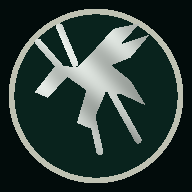
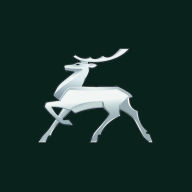
Use the supplied GAZ-21 deer emblem

Changed region(s): [[0.0312, 0.0312, 0.9688, 0.9688]]

diff --git a/index.html b/index.html
@@ -33,7 +33,7 @@ button{font:inherit;color:inherit;cursor:pointer}
 button:focus-visible{outline:3px solid var(--gold);outline-offset:3px}
 .app{position:relative;max-width:520px;margin:0 auto;padding:18px 0 34px;display:grid;gap:14px}
 .brandbar{display:flex;align-items:center;justify-content:space-between;gap:12px;padding:2px 3px}
-.brand{display:flex;align-items:center;gap:10px;min-width:0}.badge{width:57px;height:49px;flex:none;display:grid;place-items:center;color:var(--chrome);filter:drop-shadow(0 3px 5px rgba(0,0,0,.55))}.badge svg{width:57px;height:45px;overflow:visible}.title{display:grid;line-height:1}.title b{font-family:var(--dial);font-size:29px;font-stretch:condensed;font-weight:800;font-style:italic;letter-spacing:.16em;text-transform:uppercase;color:#ece9d5;text-shadow:0 2px 0 #303a35,0 4px 10px rgba(0,0,0,.55)}.title small{margin-top:7px;color:var(--muted);font-family:var(--dial);font-size:10px;font-weight:700;letter-spacing:.18em;text-transform:uppercase}
+.brand{display:flex;align-items:center;gap:10px;min-width:0}.badge{display:block;width:57px;height:49px;flex:none;object-fit:contain;filter:drop-shadow(0 3px 5px rgba(0,0,0,.55))}.title{display:grid;line-height:1}.title b{font-family:var(--dial);font-size:29px;font-stretch:condensed;font-weight:800;font-style:italic;letter-spacing:.16em;text-transform:uppercase;color:#ece9d5;text-shadow:0 2px 0 #303a35,0 4px 10px rgba(0,0,0,.55)}.title small{margin-top:7px;color:var(--muted);font-family:var(--dial);font-size:10px;font-weight:700;letter-spacing:.18em;text-transform:uppercase}
 .conn{min-height:44px;display:flex;align-items:center;gap:8px;border:1px solid var(--line);background:rgba(5,20,20,.58);border-radius:999px;padding:9px 13px;font-size:13px;font-weight:650;white-space:nowrap;box-shadow:inset 0 1px rgba(255,255,255,.05)}
 .dot{position:relative;width:9px;height:9px;border-radius:50%;background:var(--off);flex:none}.dot:after{content:"";position:absolute;inset:-5px;border:1px solid transparent;border-radius:50%}.conn[data-s="on"] .dot{background:var(--green);box-shadow:0 0 12px var(--green)}.conn[data-s="wait"] .dot{background:var(--amber);box-shadow:0 0 10px var(--amber)}.conn[data-s="wait"] .dot:after{border-color:var(--amber);animation:radiate 1.4s infinite}
 @keyframes radiate{to{transform:scale(1.55);opacity:0}}
@@ -54,7 +54,7 @@ button:focus-visible{outline:3px solid var(--gold);outline-offset:3px}
 <main class="app">
   <header class="brandbar">
     <div class="brand">
-      <div class="badge" aria-hidden="true"><svg viewBox="0 0 160 92" fill="none"><defs><linearGradient id="stagMetal" x1="0" y1="0" x2="1" y2="1"><stop stop-color="#fffde9"/><stop offset=".35" stop-color="#a2aaa7"/><stop offset=".68" stop-color="#f1eedb"/><stop offset="1" stop-color="#67716e"/></linearGradient></defs><path d="M18 66 37 45l18-11 14-18 8 2-3 13 18-10 22-17 10 2-12 15 22-10 9 4-17 15 25-5 7 6-20 12-25 5-18 1 18 8 18 17-17-7-17-1-20 10-24-2-17-13-17 8z" fill="url(#stagMetal)" stroke="#26322e" stroke-width="1.7" stroke-linejoin="round"/><path d="M58 36 41 17m24 13L56 9m53 57 17 20M87 70l-4 18M55 67 37 86M35 55 15 43" stroke="url(#stagMetal)" stroke-width="6" stroke-linecap="round"/><path d="m111 20 16-17m-7 23 25-15" stroke="url(#stagMetal)" stroke-width="5" stroke-linecap="round"/><circle cx="82" cy="30" r="2.2" fill="#121a17"/></svg></div>
+      <img class="badge" src="gaz21-deer.png" width="57" height="49" alt="">
       <div class="title"><b>Волга</b><small>ГАЗ-21 · водительская дверь</small></div>
     </div>
     <button class="conn" id="connBtn" data-s="off" type="button" aria-label="Подключиться к замку"><span class="dot"></span><span id="connText">Подключить</span></button>

diff --git a/sw.js b/sw.js
@@ -1,6 +1,6 @@
 // Кэш для работы без интернета (например, в гараже)
-const CACHE = 'volga-v6-stag-emblem';
-const FILES = ['./', 'index.html', 'manifest.webmanifest', 'icon-192.png', 'icon-512.png'];
+const CACHE = 'volga-v7-gaz21-deer';
+const FILES = ['./', 'index.html', 'manifest.webmanifest', 'gaz21-deer.png', 'icon-192.png', 'icon-512.png'];
 self.addEventListener('install', e => { e.waitUntil(caches.open(CACHE).then(c => c.addAll(FILES))); self.skipWaiting(); });
 self.addEventListener('activate', e => { e.waitUntil(caches.keys().then(k => Promise.all(k.filter(x => x !== CACHE).map(x => caches.delete(x))))); self.clients.claim(); });
 self.addEventListener('fetch', e => {
